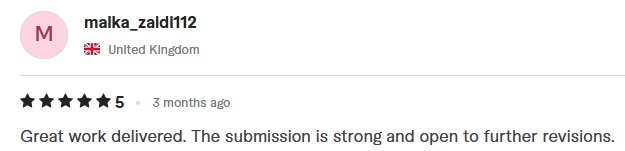
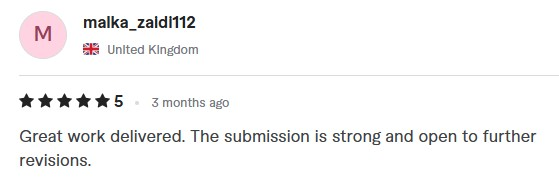
reviews section update

diff --git a/js/main.js b/js/main.js
@@ -496,13 +496,9 @@ function animateCounter(el) {
 
 /**
  * Setup Reviews Marquee
- * Fetches images from the reviews folder and creates an infinite scrolling marquee.
+ * Dynamically discovers images from the reviews folder and creates an infinite scrolling marquee.
  */
-function setupReviewsMarquee() {
-  // Array of image identifiers - limiting to exactly what we have right now (1-7)
-  const reviewImageNumbers = [1, 2, 3, 4, 5, 6, 7];
-  
-  // Split the images across 2 rows
+async function setupReviewsMarquee() {
   const rows = [
     document.getElementById('marquee-row-1'),
     document.getElementById('marquee-row-2')
@@ -510,10 +506,50 @@ function setupReviewsMarquee() {
   
   if (!rows[0]) return; // Section not present
   
-  // Distribute items into 2 chunks
+  // 1. Dynamically discover all available images (1.jpeg, 2.png, etc.)
+  let availableImages = [];
+  let i = 1;
+  const extensions = ['.jpeg', '.jpg', '.png'];
+  let consecutiveMisses = 0; // Allow a small gap in numbering just in case
+  
+  while (consecutiveMisses < 2) {
+    let foundUrl = null;
+    
+    // Check all possible extensions for the current number
+    for (let ext of extensions) {
+      let url = `images/reviews/${i}${ext}`;
+      let exists = await new Promise(resolve => {
+        let img = new Image();
+        img.onload = () => resolve(true);
+        img.onerror = () => resolve(false);
+        img.src = url;
+      });
+      
+      if (exists) {
+        foundUrl = url;
+        break;
+      }
+    }
+    
+    if (foundUrl) {
+      availableImages.push(foundUrl);
+      consecutiveMisses = 0; // Reset misses since we found one
+    } else {
+      consecutiveMisses++; // Increment misses if no image matched
+    }
+    i++;
+  }
+  
+  if (availableImages.length === 0) {
+    // Safe fallback if the folder is completely empty
+    availableImages = ['https://placehold.co/700x500/0f172a/7c3aed?text=Add+Review+Images'];
+  }
+  
+  // 2. Distribute discovered images into 2 rows evenly
+  const half = Math.ceil(availableImages.length / 2);
   const rowContents = [
-    reviewImageNumbers.slice(0, 4), // [1, 2, 3, 4]
-    reviewImageNumbers.slice(4, 7)  // [5, 6, 7]
+    availableImages.slice(0, half),
+    availableImages.slice(half)
   ];
   
   rows.forEach((row, index) => {
@@ -521,20 +557,19 @@ function setupReviewsMarquee() {
     if (!track) return;
     
     let htmlContent = '';
-    
     const items = rowContents[index]; 
     
-    items.forEach(num => {
-      // Trying .jpeg first, falling back to .png, then .jpg, then fallback placeholder
+    if (items.length === 0) return; // Skip if row is empty
+    
+    items.forEach(src => {
       htmlContent += `
         <div class="review-card">
-          <img src="images/reviews/${num}.jpeg" alt="Client Review ${num}" onerror="if(!this.dataset.triedPng){this.dataset.triedPng='true'; this.src='images/reviews/${num}.png';} else if(!this.dataset.triedJpg){this.dataset.triedJpg='true'; this.src='images/reviews/${num}.jpg';} else {this.src='https://placehold.co/600x400/0f172a/7c3aed?text=Review+${num}';}">
+          <img src="${src}" alt="Client Review">
         </div>
       `;
     });
     
     // Duplicate exactly once to create a continuous infinite chain
-    // The CSS animation will translate from 0 to -50%, ensuring a smooth loop
     track.innerHTML = htmlContent + htmlContent; 
   });
 }